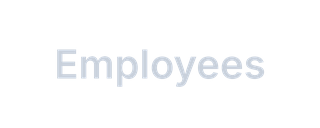
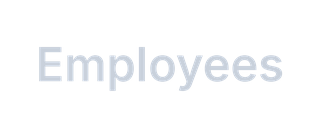
Dashboard 1 wide layout

Changed region(s): [[0.125, 0.3438, 0.9062, 0.7188]]

diff --git a/docs/brand/build/make_button_shapes.py b/docs/brand/build/make_button_shapes.py
@@ -9,10 +9,10 @@ Writes to docs/brand/shapes/Arcadia/ and a preview to docs/brand/build/button_pr
 
 | File | Cell on the dashboard | Drawn at | Used by |
 |---|---|---|---|
-| seg_worker_{employees,contingent,total}_{on,off} | 80 x 32 | 320 x 128 | #1 top bar, Worker toggle (capsule #243A57) |
-| fld_top | 164 x 32 | 656 x 128 | #1 top bar, Period Field and Group Field (white capsule, same radius as the toggle and Reset) |
+| seg_worker_{employees,contingent,total}_{on,off} | 80 x 32 | 320 x 128 (label 12 px) | #1 top bar, Worker toggle (capsule #243A57) |
+| fld_top | 180 x 32 | 720 x 128 | #1 top bar, Period Field and Group Field (white capsule, same radius as the toggle and Reset) |
 | fld_rail | 200 x 30 | 800 x 120 | #2 rail, Period Field and Group Field (#E4E3DD, radius as the toggles) |
-| btn_reset_top_label | 150 x 32 | 600 x 128 | #1 top bar, Reset (outlined capsule: arrow + "Reset to default view") |
+| btn_reset_top_label | 184 x 32 | 736 x 128 | #1 top bar, Reset (outlined capsule: arrow + "Reset to default view") |
 | btn_reset_top | 32 x 32 | 128 x 128 | Spare: arrow only, for a narrow header |
 | btn_reset_rail | 188 x 30 | 752 x 120 | #2 rail, Reset (outlined button, as published) |
 | btn_close | 16 x 16 | 64 x 64 | Both, the x on every popover (slate) |
@@ -52,7 +52,7 @@ def segment(label, on, name, w=320, h=128):
     im, d = canvas(w, h)
     if on:
         d.rounded_rectangle((10 * S, 10 * S, (w - 10) * S, (h - 10) * S), radius=((h - 20) // 2) * S, fill=WHITE)
-    f = ImageFont.truetype(FONT, 40 * S)
+    f = ImageFont.truetype(FONT, 47 * S)
     d.text((w * S // 2, h * S // 2), label, font=f, fill=NAVY if on else MIST, anchor="mm")
     save(im, w, h, name)
 
@@ -69,7 +69,7 @@ def field(name, w, h, fill, radius):
     save(im, w, h, name)
 
 
-field("fld_top", 656, 128, WHITE, 64)
+field("fld_top", 720, 128, WHITE, 64)
 field("fld_rail", 800, 120, WASH, 14)
 
 
@@ -92,12 +92,12 @@ reset_arrow(d, 64 * S, 66 * S, 38 * S, 9 * S, WHITE)
 save(im, 128, 128, "btn_reset_top")
 
 # #1 top bar: a capsule, arrow + words, so it reads as a button and not as a loading spinner
-w, h = 600, 128
+w, h = 736, 128
 im, d = canvas(w, h)
-d.rounded_rectangle((3 * S, 3 * S, (w - 3) * S, (h - 3) * S), radius=((h - 6) // 2) * S, outline=(255, 255, 255, 110), width=4 * S)
-reset_arrow(d, 62 * S, 66 * S, 20 * S, 6 * S, WHITE)
-f = ImageFont.truetype(FONT, 36 * S)
-d.text((98 * S, h * S // 2), "Reset to default view", font=f, fill=WHITE, anchor="lm")
+d.rounded_rectangle((3 * S, 3 * S, (w - 3) * S, (h - 3) * S), radius=((h - 6) // 2) * S, outline=(255, 255, 255, 120), width=4 * S)
+reset_arrow(d, 66 * S, 66 * S, 21 * S, 6 * S, WHITE)
+f = ImageFont.truetype(FONT, 45 * S)
+d.text((106 * S, h * S // 2), "Reset to default view", font=f, fill=WHITE, anchor="lm")
 save(im, w, h, "btn_reset_top_label")
 
 w, h = 752, 120

diff --git a/docs/projects/headcount-fte-walk/release_3_rebuild_dashboard_1.md b/docs/projects/headcount-fte-walk/release_3_rebuild_dashboard_1.md
@@ -79,10 +79,10 @@ Click flow after the fix: the click fires the parameter action, then the self fi
 
 | File | Size on the dashboard | Used for |
 |---|---|---|
-| `fld_top.png` | 164 × 32 | #1 Period and Group fields (white capsule, same radius as the toggle) |
+| `fld_top.png` | 180 × 32 | #1 Period and Group fields (white capsule, same radius as the toggle) |
 | `fld_rail.png` | 200 × 30 | #2 Period and Group fields (`#E4E3DD`, rounded like the toggles) |
 | `seg_worker_employees_on/off`, `seg_worker_contingent_on/off`, `seg_worker_total_on/off` | 80 × 32 each | #1 Workforce toggle (capsule `#243A57`) |
-| `btn_reset_top_label.png` | 150 × 32 | #1 Reset (outlined capsule: arrow + "Reset to default view") |
+| `btn_reset_top_label.png` | 184 × 32 | #1 Reset (outlined capsule: arrow + "Reset to default view") |
 | `btn_reset_top.png` | 32 × 32 | Spare: arrow only, for a narrow header |
 | `btn_reset_rail.png` | 188 × 30 | #2 Reset (outlined button, as published) |
 | `btn_close.png` / `btn_close_light.png` | 16 × 16 | The ✕ on every popover (slate on white / mist on navy) |
@@ -379,7 +379,7 @@ Sheet `Period Field`, source **Region Walk**:
 7. Tooltip: `Choose the period` (Tableau Book 9), uncheck Include command buttons.
 8. Dashboard item: floating, **Entire View**, background None, inner padding 0.
 
-Test: the field shows `FY26 · Jun 25 → Jun 26  ▾` on a white capsule filling 164 × 32. Hover: a thin outline around the box, **no square**. If the shape will not fill the cell, set the item to Fit **Standard** on the dashboard and widen the sheet's cell (Format > Cell size > Taller/Wider); if it still will not, use the fallback in 0.4 and tell me what you see.
+Test: the field shows `FY26 · Jun 25 → Jun 26  ▾` on a white capsule filling 180 × 32. Hover: a thin outline around the box, **no square**. If the shape will not fill the cell, set the item to Fit **Standard** on the dashboard and widen the sheet's cell (Format > Cell size > Taller/Wider); if it still will not, use the fallback in 0.4 and tell me what you see.
 
 ### 6.2 Group Field
 
@@ -420,7 +420,7 @@ Sheet `Reset`, source **Region Walk** (any one row):
 1. Marks **Shape** = `btn_reset_top_label` (the wide capsule with the words; not `btn_reset_rail`, which is #2's, and not `btn_reset_top`, the arrow-only spare); size max; filter `Period Is Current` = True and `view_name` = "Company" (one mark).
 2. Detail: every `Default ...` calc, `Close Panel`, `zzTrue`, `zzFalse`.
 3. Tooltip: `Reset to default view` (Semibold 9).
-4. Shading None; item **150 × 32**.
+4. Shading None; item **184 × 32**.
 
 ### 6.5 Info Button
 
@@ -463,42 +463,28 @@ Worksheet > Tooltip: bold line **How to read this page** (Semibold 10 navy), `<T
 
 ### 6.7 Headings over the fields
 
-Three dashboard **Text** objects (static text is not selectable), Tableau Bold 8, `#8FA0B8`, 180 × 14: `SELECT PERIOD`, `SELECT VIEW`, `SHOW`. Same words as #2's rail headings.
+Three dashboard **Text** objects (static text is not selectable), Tableau Bold 10, `#B8C4D6`, 180 × 14: `SELECT PERIOD`, `SELECT VIEW`, `SHOW`. Same words as #2's rail headings.
 
 ### 6.8 Header layout (1400 wide, band 76 high)
 
 Every control is 32 high on the same baseline (y 30) and shaped as a capsule or circle, so the bar reads as one set.
 
+
 | Object | x | y | w | h |
 |---|---:|---:|---:|---:|
 | Header band (Blank, `#13233A`) | 0 | 0 | 1400 | 76 |
-| Logo | 56 | 14 | 177 | 48 |
-| Page Title | 249 | 9 | 285 | 58 |
-| SELECT PERIOD | 546 | 12 | 164 | 14 |
-| Period Field | 546 | 30 | 164 | 32 |
-| SELECT VIEW | 722 | 12 | 164 | 14 |
-| Group Field | 722 | 30 | 164 | 32 |
-| SHOW | 898 | 12 | 240 | 14 |
-| Workforce Toggle | 898 | 30 | 240 | 32 |
-| Reset | 1150 | 30 | 150 | 32 |
-| Info Button | 1312 | 30 | 32 | 32 |
+| Logo | 30 | 14 | 177 | 48 |
+| Page Title | 223 | 9 | 275 | 58 |
+| SELECT PERIOD | 506 | 12 | 180 | 14 |
+| Period Field | 506 | 30 | 180 | 32 |
+| SELECT VIEW | 698 | 12 | 180 | 14 |
+| Group Field | 698 | 30 | 180 | 32 |
+| SHOW | 890 | 12 | 240 | 14 |
+| Workforce Toggle | 890 | 30 | 240 | 32 |
+| Reset | 1142 | 30 | 184 | 32 |
+| Info Button | 1338 | 30 | 32 | 32 |
 
-Gaps are 12 px between controls; the right edge is 1344, the 56 px gutter of the page. Delete any parameter control (`p_InfoOpen`, `p_Worker`, `p_From`, `p_To`) and shape legend (`Info Shape`) left on the dashboard: they are helpers for the actions, not part of the page. The Page Title text is **white**.
-
----|---:|---:|---:|---:|
-| Header band (Blank, `#13233A`) | 0 | 0 | 1400 | 76 |
-| Logo | 56 | 14 | 177 | 48 |
-| Page Title | 256 | 9 | 372 | 58 |
-| SELECT PERIOD | 640 | 12 | 180 | 14 |
-| Period Field | 640 | 30 | 180 | 32 |
-| SELECT VIEW | 832 | 12 | 180 | 14 |
-| Group Field | 832 | 30 | 180 | 32 |
-| SHOW | 1024 | 12 | 240 | 14 |
-| Workforce Toggle | 1024 | 30 | 240 | 32 |
-| Reset | 1272 | 30 | 32 | 32 |
-| Info Button | 1312 | 30 | 32 | 32 |
-
-Right edge 1344, the 56 px gutter of the page.
+Gaps are 12 px between controls and 16 px between the logo/title and the fields; the logo sits on the left edge of the page grid (x 30) and Info on the right edge (1370). The whole page uses a **30 px margin** so the banner and the body are the same width. Delete any parameter control (`p_InfoOpen`, `p_Worker`, `p_From`, `p_To`) and shape legend (`Info Shape`) left on the dashboard: they are helpers for the actions, not part of the page. The Page Title text is **white**.
 
 ---
 
@@ -508,7 +494,7 @@ Right edge 1344, the 56 px gutter of the page.
 
 Sheets on **Region Walk**, built exactly as [rail_controls_build.md](../compensation-walk/rail_controls_build.md) Part 4.3: `Span List`, `Period Panel`, `Popover Close` (shape `btn_close_light`, Detail `Close Panel`, `zzTrue`, `zzFalse`, tooltip `Close`). Title text object "Select a period"; note line 9 pt `#8FA0B8`: "Fiscal year runs July to June. Each option compares two month-ends. Data through Jun 30, 2026."
 
-Container `Period Popover`: floating, navy style of 0.5, **x 624, y 76, w 720, h 330** (right edge 1344), visibility `p_PeriodOpen`. Inside: header row (title + ✕), note, then a horizontal container with `Span List` (120 wide) and `Period Panel`.
+Container `Period Popover`: floating, navy style of 0.5, **x 650, y 76, w 720, h 330** (right edge 1370), visibility `p_PeriodOpen`. Inside: header row (title + ✕), note, then a horizontal container with `Span List` (120 wide) and `Period Panel`.
 
 Period actions (Dashboard > Actions, all Run on **Select**, Clearing **Keep current value**):
 
@@ -530,7 +516,7 @@ The top bar has no room for #2's six-row view list, so the view list moves into 
 1. Sheet `View List` (Region Walk): Marks **Text**. Rows: `view_name`, sorted by `view_order` (Field, Minimum). Text: `View Display`. Filter `View Offered` = True and `Period Is Current` = True. Detail: `view_name`, `Default Group`, `zzTrue`, `zzFalse`. Font Tableau Book 10 `#B8C0CC`; the current row Semibold white (Color: `ATTR([view_name] = [p_View])`, True white, False `#B8C0CC`). Headers hidden, shading None, tooltip off.
 2. Sheet `Group Panel`: copy #2's ([rail_group_picker_build.md](../compensation-walk/rail_group_picker_build.md) 2.4) on Region Walk. Filters `Group In View` = True and `Period Is Current` = True. Detail `group_name`, `Close Panel`, `zzTrue`, `zzFalse`. Colors on navy: current white Semibold, others `#B8C0CC`.
 3. Sheet `Group Heading 2`: Text `<Panel Title>`, Bold 12 white.
-4. Container `Group Popover`: **x 724, y 76, w 620, h 330** (right edge 1344), navy style, visibility `p_GroupOpen`. Header row (`Group Heading 2` + ✕ sheet), then a horizontal container: `View List` (140 wide) and `Group Panel`.
+4. Container `Group Popover`: **x 750, y 76, w 620, h 330** (right edge 1370), navy style, visibility `p_GroupOpen`. Header row (`Group Heading 2` + ✕ sheet), then a horizontal container: `View List` (140 wide) and `Group Panel`.
 
 | Name | Source | Target | Field |
 |---|---|---|---|
@@ -640,7 +626,11 @@ Expand / Collapse buttons: copy #2's construction (build_status.md, "Expand / Co
 
 ### 8.2 KPI cards
 
-Card set per toggle value. The geometry (map layers, 15 anchors) stays as built; only the text calcs change.
+#### 8.2a Wider cards (30 px margin)
+
+The cards now span the full page grid (x 30 to 1370): five cards 255 wide with 16 gaps. Use the new background `docs/brand/arcadia_kpi_cards_bg_wide.png` (2800 × 220; generated with `make_kpi_cards_bg.py --left 30 --top 12 --card-w 255 --card-h 86 --gap 16 --radius 10`) as the background image item (0, 78, 1400 × 110). Set the KPI parameters: `kpi_GridLeft` 30, `kpi_CardW` 255, `kpi_GapX` 16 (others unchanged: GridTop 12, CardH 86, PadX 16). Tableau pads the map extent, so check that each title starts 16 px inside its card; if all five drift the same way nudge `kpi_FitX` by 0.01 (and `kpi_ShiftX` for a constant offset), as in the KPI guide, section 6.
+
+Card set per toggle value. The map layers and 15 anchors stay as built; only the text calcs change.
 
 | Card | Employees | Contingent | Total |
 |---|---|---|---|
@@ -702,7 +692,7 @@ Replace `Function Name` on Rows with `TO Dim`; `TO Top Function` → rename `TO 
 
 ### 8.4 Info popover (replaces the white Info Panel)
 
-Container `Info Popover`, navy style (0.5), **x 964, y 76, w 380, h 470**, visibility `p_InfoOpen`, front. Header row: title "How to read this page" + ✕ (`Popover Close` for info). Body (one Text object, 10 pt):
+Container `Info Popover`, navy style (0.5), **x 990, y 76, w 380, h 470**, visibility `p_InfoOpen`, front. Header row: title "How to read this page" + ✕ (`Popover Close` for info). Body (one Text object, 10 pt):
 
 > **Period.** Every number compares two month-ends: the walk opens on the first and closes on the second. Arcadia's fiscal year runs July to June.
 >
@@ -805,14 +795,14 @@ If the secondary number shows blank: the link is not active (click the link icon
 | # | Object | x | y | w | h | Note |
 |---|---|---:|---:|---:|---:|---|
 | 1–11 | Header (6.8) | | | | | |
-| 12 | KPI background image | 0 | 78 | 1400 | 110 | unchanged |
-| 13 | KPI cards | 0 | 78 | 1400 | 110 | unchanged |
-| 14 | Waterfall | 56 | 188 | 780 | 624 | unchanged; bottom padding 64 |
-| 15 | Btn Expand ALL / Btn Collapse ALL | 674 | 198 | 150 | 24 | Same spot; one visible at a time |
-| 16 | Waterfall Caption | 68 | 750 | 756 | 56 | Two lines now |
-| 17 | Trend | 848 | 188 | 496 | 300 | unchanged |
-| 18 | Turnover | 848 | 500 | 496 | 312 | unchanged |
-| 19 | Footnote (Text object) | 56 | 822 | 600 | 16 | "Arcadia Systems is a fictional company. All data is synthetic." Book 8 slate |
+| 12 | KPI background image | 0 | 78 | 1400 | 110 | new wide image (8.2a) |
+| 13 | KPI cards | 0 | 78 | 1400 | 110 | geometry parameters per 8.2a |
+| 14 | Waterfall | 30 | 188 | 806 | 624 | unchanged; bottom padding 64 |
+| 15 | Btn Expand ALL / Btn Collapse ALL | 686 | 198 | 150 | 24 | Same spot; one visible at a time |
+| 16 | Waterfall Caption | 42 | 750 | 782 | 56 | Two lines now |
+| 17 | Trend | 852 | 188 | 518 | 300 | unchanged |
+| 18 | Turnover | 852 | 500 | 518 | 312 | unchanged |
+| 19 | Footnote (Text object) | 30 | 822 | 600 | 16 | "Arcadia Systems is a fictional company. All data is synthetic." Book 8 slate |
 | 20 | Period / Group / Info popovers | 7.1, 7.2, 8.4 | | | | Front, hidden |
 
 Item order (Layout pane, bottom to top): background, cards, charts, buttons, header controls, popovers last.
